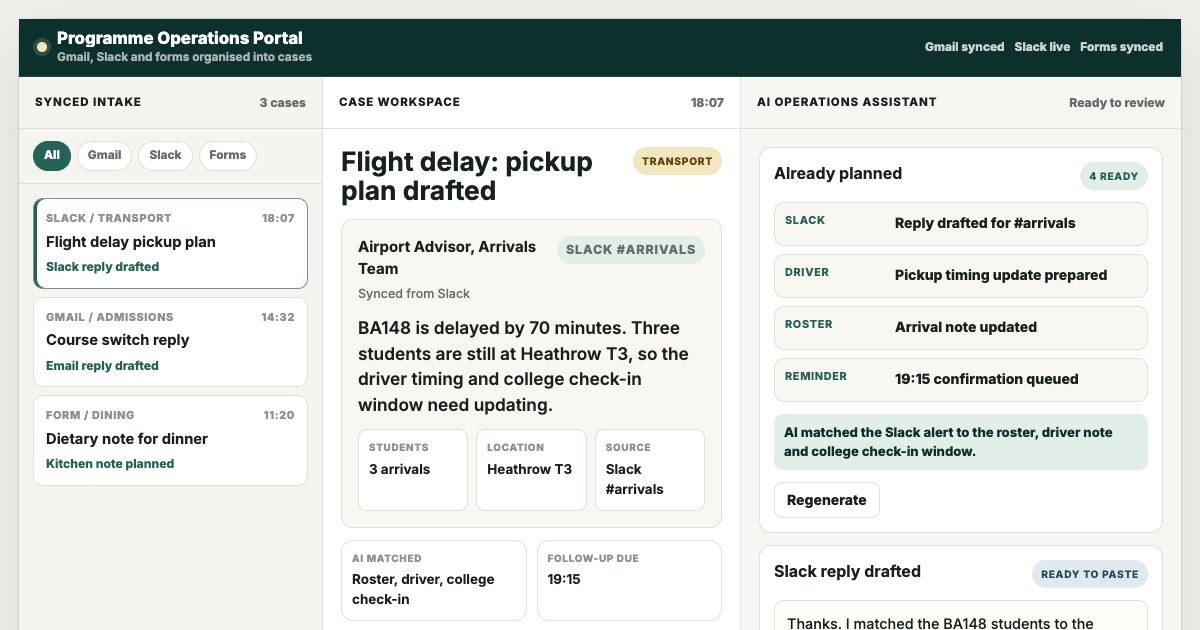
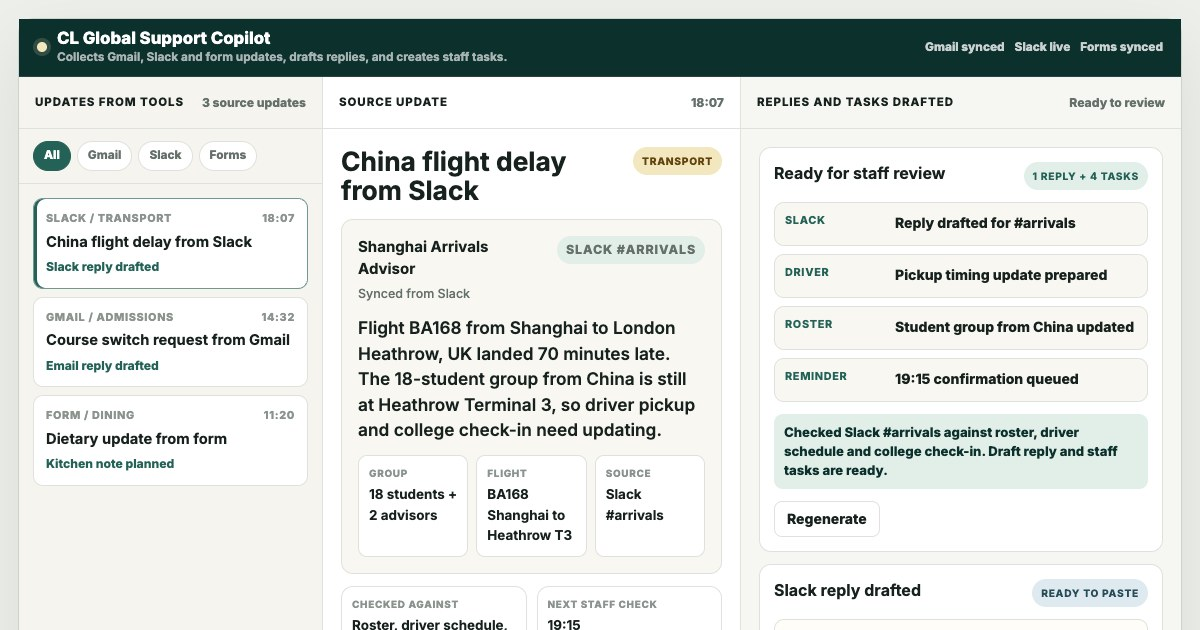
Clarify support copilot demo flow

diff --git a/programme-support-copilot.html b/programme-support-copilot.html
@@ -669,8 +669,8 @@
           <div class="app-title">
             <span class="app-dot" aria-hidden="true"></span>
             <div>
-              <h1 id="main-title">Programme Operations Portal</h1>
-              <small>Gmail, Slack and forms organised into cases</small>
+              <h1 id="main-title">CL Global Support Copilot</h1>
+              <small>Collects Gmail, Slack and form updates, drafts replies, and creates staff tasks.</small>
             </div>
           </div>
           <div class="top-status" aria-label="Operations portal status">
@@ -681,10 +681,10 @@
         </header>
 
         <section class="workspace" aria-label="AI operations portal preview">
-          <aside class="sidebar" aria-label="Synced intake">
+          <aside class="sidebar" aria-label="Updates from tools">
             <div class="section-head">
-              <h2>Synced intake</h2>
-              <span id="intake-count">3 cases</span>
+              <h2>Updates from tools</h2>
+              <span id="intake-count">3 source updates</span>
             </div>
             <div class="filters" aria-label="Inbox filters">
               <button class="filter active" type="button" data-source="all">All</button>
@@ -695,17 +695,17 @@
             <div class="queue-list" role="tablist" aria-label="Synced cases">
               <button class="case-button active" type="button" data-scenario="arrival" data-source="slack">
                 <span class="queue-meta"><span>Slack / Transport</span><span>18:07</span></span>
-                <strong>Flight delay pickup plan</strong>
+                <strong>China flight delay from Slack</strong>
                 <small>Slack reply drafted</small>
               </button>
               <button class="case-button" type="button" data-scenario="course" data-source="gmail">
                 <span class="queue-meta"><span>Gmail / Admissions</span><span>14:32</span></span>
-                <strong>Course switch reply</strong>
+                <strong>Course switch request from Gmail</strong>
                 <small>Email reply drafted</small>
               </button>
               <button class="case-button" type="button" data-scenario="dietary" data-source="forms">
                 <span class="queue-meta"><span>Form / Dining</span><span>11:20</span></span>
-                <strong>Dietary note for dinner</strong>
+                <strong>Dietary update from form</strong>
                 <small>Kitchen note planned</small>
               </button>
             </div>
@@ -713,33 +713,33 @@
 
           <article class="case">
             <div class="section-head">
-              <h2>Case workspace</h2>
+              <h2>Source update</h2>
               <span id="case-time">18:07</span>
             </div>
             <div class="case-body">
               <div class="case-header">
-                <h2 class="case-title" id="incoming-title">Flight delay: pickup plan drafted</h2>
+                <h2 class="case-title" id="incoming-title">China flight delay from Slack</h2>
                 <span class="pill gold" id="issue-pill">Transport</span>
               </div>
               <div class="message-card">
                 <div class="sender">
                   <div>
-                    <strong id="sender-name">Airport Advisor, Arrivals Team</strong>
+                    <strong id="sender-name">Shanghai Arrivals Advisor</strong>
                     <span id="sender-meta">Synced from Slack</span>
                   </div>
                   <span class="pill" id="source-pill">Slack #arrivals</span>
                 </div>
                 <p class="message" id="incoming-message">
-                  BA148 is delayed by 70 minutes. Three students are still at Heathrow T3, so the driver timing and college check-in window need updating.
+                  Flight BA168 from Shanghai to London Heathrow, UK landed 70 minutes late. The 18-student group from China is still at Heathrow Terminal 3, so driver pickup and college check-in need updating.
                 </p>
                 <div class="facts">
                   <div>
-                    <span id="student-label">Students</span>
-                    <strong id="student-context">3 arrivals</strong>
+                    <span id="student-label">Group</span>
+                    <strong id="student-context">18 students + 2 advisors</strong>
                   </div>
                   <div>
-                    <span id="location-label">Location</span>
-                    <strong id="location-context">Heathrow T3</strong>
+                    <span id="location-label">Flight</span>
+                    <strong id="location-context">BA168 Shanghai to Heathrow T3</strong>
                   </div>
                   <div>
                     <span>Source</span>
@@ -750,11 +750,11 @@
 
               <div class="detail-grid">
                 <div class="detail-card">
-                  <span>AI matched</span>
-                  <strong id="log-type">Roster, driver, college check-in</strong>
+                  <span>Checked against</span>
+                  <strong id="log-type">Roster, driver schedule, college check-in</strong>
                 </div>
                 <div class="detail-card">
-                  <span>Follow-up due</span>
+                  <span>Next staff check</span>
                   <strong id="check-context">19:15</strong>
                 </div>
               </div>
@@ -766,7 +766,7 @@
                 </div>
                 <div class="note-row">
                   <span id="history-plan-time">18:08</span>
-                  <strong id="history-plan">AI matched arrival roster and driver note</strong>
+                  <strong id="history-plan">Roster and driver schedule checked</strong>
                 </div>
                 <div class="note-row">
                   <span id="history-check-time">18:09</span>
@@ -778,17 +778,17 @@
 
           <aside class="assistant">
             <div class="section-head">
-              <h2>AI operations assistant</h2>
+              <h2>Replies and tasks drafted</h2>
               <span id="review-pill">Review required</span>
             </div>
             <div class="assistant-body">
               <section class="ai-card">
                 <div class="ai-card-head">
-                  <h3>Already planned</h3>
-                  <span class="pill" id="ready-pill">4 ready</span>
+                  <h3>Ready for staff review</h3>
+                  <span class="pill" id="ready-pill">1 reply + 4 tasks</span>
                 </div>
                 <ul class="ready-list" id="ready-list"></ul>
-                <div class="status" id="status-line">AI matched the source message to the roster and prepared the staff follow-up.</div>
+                <div class="status" id="status-line">Checked Slack #arrivals against roster, driver schedule and college check-in. Draft reply and staff tasks are ready.</div>
                 <div class="button-row">
                   <button class="button" type="button" id="run-button">Regenerate</button>
                 </div>
@@ -801,14 +801,14 @@
                 </div>
                 <div class="draft-box" id="reply-draft"></div>
                 <div class="button-row">
-                  <button class="button primary" type="button" id="approve-button">Mark sent</button>
-                  <button class="button" type="button" id="copy-reply-button">Copy to source thread</button>
+                  <button class="button primary" type="button" id="copy-reply-button">Copy reply to Slack</button>
+                  <button class="button" type="button" id="approve-button">Mark as posted</button>
                 </div>
               </section>
 
               <section class="draft-card">
                 <div class="draft-head">
-                  <h3>Next steps</h3>
+                  <h3>Staff tasks created</h3>
                   <span class="pill" id="task-pill">4 tasks</span>
                 </div>
                 <ul class="task-list" id="task-list"></ul>
@@ -816,12 +816,12 @@
 
               <section class="draft-card">
                 <div class="draft-head">
-                  <h3>Internal note</h3>
-                  <span class="pill blue" id="draft-pill">Log draft</span>
+                  <h3>Operations log note</h3>
+                  <span class="pill blue" id="draft-pill">Ready for log</span>
                 </div>
                 <div class="draft-box brief-box" id="plan-draft"></div>
                 <div class="button-row">
-                  <button class="button" type="button" id="copy-button">Copy note</button>
+                  <button class="button" type="button" id="copy-button">Copy ops log note</button>
                 </div>
               </section>
             </div>
@@ -833,50 +833,51 @@
     <script>
       const scenarios = {
         arrival: {
-          title: "Flight delay: pickup plan drafted",
+          title: "China flight delay from Slack",
           pill: "Transport",
           time: "18:07",
           planTime: "18:08",
           readyTime: "18:09",
-          sender: "Airport Advisor, Arrivals Team",
+          sender: "Shanghai Arrivals Advisor",
           meta: "Synced from Slack",
           source: "Slack #arrivals",
           sourceBadge: "Slack #arrivals",
           sourceHistory: "Slack alert synced into portal",
-          historyPlan: "AI matched arrival roster and driver note",
+          historyPlan: "Roster and driver schedule checked",
           historyReady: "Slack reply and follow-up tasks drafted",
           message:
-            "BA148 is delayed by 70 minutes. Three students are still at Heathrow T3, so the driver timing and college check-in window need updating.",
-          studentLabel: "Students",
-          student: "3 arrivals",
-          locationLabel: "Location",
-          location: "Heathrow T3",
+            "Flight BA168 from Shanghai to London Heathrow, UK landed 70 minutes late. The 18-student group from China is still at Heathrow Terminal 3, so driver pickup and college check-in need updating.",
+          studentLabel: "Group",
+          student: "18 students + 2 advisors",
+          locationLabel: "Flight",
+          location: "BA168 Shanghai to Heathrow T3",
           review: "Ready to review",
           ready: [
             ["Slack", "Reply drafted for #arrivals"],
             ["Driver", "Pickup timing update prepared"],
-            ["Roster", "Arrival note updated"],
+            ["Roster", "Student group from China updated"],
             ["Reminder", "19:15 confirmation queued"]
           ],
-          status: "AI matched the Slack alert to the roster, driver note and college check-in window.",
+          status: "Checked Slack #arrivals against roster, driver schedule and college check-in. Draft reply and staff tasks are ready.",
           replyTitle: "Slack reply drafted",
           replyPill: "Ready to paste",
-          copyLabel: "Copy to Slack",
+          copyLabel: "Copy reply to Slack",
+          copyStatus: "Reply copied. Paste it into Slack #arrivals.",
           reply:
-            "Thanks. I matched the BA148 students to the arrival roster. Updated plan: driver pickup moves to 19:05, college check-in has been alerted, and the next confirmation is due at 19:15.",
+            "Thanks. I checked the BA168 student group from China against the roster. Updated plan: driver pickup moves to 19:05, college check-in has been alerted, and the next staff confirmation is at 19:15.",
           draft:
-            "Internal note\n\nBA148 delayed by 70 minutes. Three arrivals affected. Driver timing moved to 19:05. College check-in notified. Coordinator to confirm arrival status at 19:15.",
+            "Operations log note\n\nBA168 from Shanghai to London Heathrow, UK landed 70 minutes late. Student group from China: 18 students + 2 advisors. Driver pickup moved to 19:05. College check-in notified. Coordinator to confirm arrival status at 19:15.",
           tasks: [
-            ["Airport", "Keep the three students together at T3."],
+            ["Airport", "Keep the student group from China together at T3."],
             ["Driver", "Confirm revised pickup time at 19:05."],
             ["College", "Hold check-in window for late arrival."],
             ["Ops", "Confirm status in Slack at 19:15."]
           ],
-          logType: "Roster, driver, college check-in",
+          logType: "Roster, driver schedule, college check-in",
           check: "19:15"
         },
         course: {
-          title: "Course switch: admissions reply drafted",
+          title: "Course switch request from Gmail",
           pill: "Admissions",
           time: "14:32",
           planTime: "14:34",
@@ -886,7 +887,7 @@
           source: "Gmail admissions",
           sourceBadge: "Gmail",
           sourceHistory: "Gmail thread synced into portal",
-          historyPlan: "AI checked course seat note and student profile",
+          historyPlan: "Course seat note and student profile checked",
           historyReady: "Gmail reply and advisor review task drafted",
           message:
             "A confirmed student wants to switch from AI & Data Science to Engineering Design before arriving in Cambridge. Can we confirm whether this is possible and reply today?",
@@ -904,11 +905,12 @@
           status: "AI prepared the reply and flagged the one decision admissions should confirm before sending.",
           replyTitle: "Gmail reply drafted",
           replyPill: "Needs seat check",
-          copyLabel: "Copy to Gmail",
+          copyLabel: "Copy reply to Gmail",
+          copyStatus: "Reply copied. Paste it into the Gmail admissions thread.",
           reply:
             "Thanks for your message. We can review the requested switch from AI & Data Science to Engineering Design. Our admissions team is checking current availability and project fit, and we will confirm the next step shortly.",
           draft:
-            "Internal note\n\nStudent requested switch from AI & Data Science to Engineering Design. Confirm seat availability and project fit. If approved, update course list, student record and pre-arrival email.",
+            "Operations log note\n\nStudent requested switch from AI & Data Science to Engineering Design. Confirm seat availability and project fit. If approved, update course list, student record and pre-arrival email.",
           tasks: [
             ["Admissions", "Confirm Engineering Design availability."],
             ["Academic", "Check project fit for requested switch."],
@@ -919,7 +921,7 @@
           check: "Today"
         },
         dietary: {
-          title: "Dietary update: kitchen note planned",
+          title: "Dietary update from form",
           pill: "Dining",
           time: "11:20",
           planTime: "11:22",
@@ -929,7 +931,7 @@
           source: "Google Form",
           sourceBadge: "Form",
           sourceHistory: "Form submission synced into portal",
-          historyPlan: "AI matched dinner group and dining roster",
+          historyPlan: "Dinner group and dining roster checked",
           historyReady: "Kitchen note and staff alert drafted",
           message:
             "A student submitted a new nut allergy update for tonight's formal dinner. The dining team and group advisor need the note before seating is finalised.",
@@ -947,11 +949,12 @@
           status: "AI prepared the internal dining note and staff reminder from the form submission.",
           replyTitle: "Staff alert drafted",
           replyPill: "Ready to paste",
-          copyLabel: "Copy alert",
+          copyLabel: "Copy staff alert",
+          copyStatus: "Staff alert copied. Paste it into the staff channel.",
           reply:
             "New dietary update for Group C: nut allergy note added for tonight's formal dinner. Please confirm the kitchen has the update before seating is finalised.",
           draft:
-            "Internal note\n\nForm submission added nut allergy update for Group C formal dinner. Dining roster flagged. Kitchen confirmation due by 15:00. Advisor alert drafted.",
+            "Operations log note\n\nForm submission added nut allergy update for Group C formal dinner. Dining roster flagged. Kitchen confirmation due by 15:00. Advisor alert drafted.",
           tasks: [
             ["Kitchen", "Confirm allergy note before menu lock."],
             ["Advisor", "Acknowledge Group C alert."],
@@ -1007,7 +1010,7 @@
       let activeScenario = "arrival";
       let activeFilter = "all";
 
-      function renderReady(items) {
+      function renderReady(items, taskCount) {
         fields.readyList.replaceChildren();
         items.forEach(([label, item]) => {
           const li = document.createElement("li");
@@ -1018,7 +1021,7 @@
           li.append(labelSpan, itemStrong);
           fields.readyList.append(li);
         });
-        fields.readyPill.textContent = `${items.length} ready`;
+        fields.readyPill.textContent = `1 reply + ${taskCount} tasks`;
       }
 
       function renderTasks(items) {
@@ -1056,7 +1059,7 @@
         fields.reply.textContent = scenario.reply;
         fields.replyTitle.textContent = scenario.replyTitle;
         fields.replyPill.textContent = scenario.replyPill;
-        fields.draftPill.textContent = "Log draft";
+        fields.draftPill.textContent = "Ready for log";
         fields.status.textContent = scenario.status;
         copyReplyButton.textContent = scenario.copyLabel;
         fields.logType.textContent = scenario.logType;
@@ -1068,7 +1071,7 @@
         fields.historySource.textContent = scenario.sourceHistory;
         fields.historyPlan.textContent = scenario.historyPlan;
         fields.historyReady.textContent = scenario.historyReady;
-        renderReady(scenario.ready);
+        renderReady(scenario.ready, scenario.tasks.length);
         renderTasks(scenario.tasks);
       }
 
@@ -1080,7 +1083,7 @@
           button.hidden = !visible;
           return visible;
         });
-        fields.intakeCount.textContent = `${visibleButtons.length} ${visibleButtons.length === 1 ? "case" : "cases"}`;
+        fields.intakeCount.textContent = `${visibleButtons.length} ${visibleButtons.length === 1 ? "source update" : "source updates"}`;
         if (visibleButtons.length && !visibleButtons.some((button) => button.dataset.scenario === activeScenario)) {
           renderScenario(visibleButtons[0].dataset.scenario);
         }
@@ -1101,28 +1104,28 @@
           workspace.classList.remove("thinking");
           renderScenario(activeScenario);
           runButton.textContent = "Regenerate";
-          fields.status.textContent = "AI prepared work refreshed from the latest synced source.";
+          fields.status.textContent = "Draft reply and staff tasks refreshed from the latest source update.";
         }, 420);
       });
 
       approveButton.addEventListener("click", () => {
-        fields.replyPill.textContent = "Sent";
-        fields.status.textContent = "Marked sent. Follow-up tasks remain visible for the team.";
+        fields.replyPill.textContent = "Posted";
+        fields.status.textContent = "Marked as posted. Staff tasks remain visible for the team.";
       });
 
       copyButton.addEventListener("click", async () => {
         try {
           await navigator.clipboard.writeText(fields.draft.textContent);
-          fields.status.textContent = "Internal note copied for the operations log.";
+          fields.status.textContent = "Operations log note copied.";
         } catch {
-          fields.status.textContent = "Internal note is ready to copy.";
+          fields.status.textContent = "Operations log note is ready to copy.";
         }
       });
 
       copyReplyButton.addEventListener("click", async () => {
         try {
           await navigator.clipboard.writeText(fields.reply.textContent);
-          fields.status.textContent = "Reply draft copied back to the source thread.";
+          fields.status.textContent = scenarios[activeScenario].copyStatus;
         } catch {
           fields.status.textContent = "Reply draft is ready to copy.";
         }